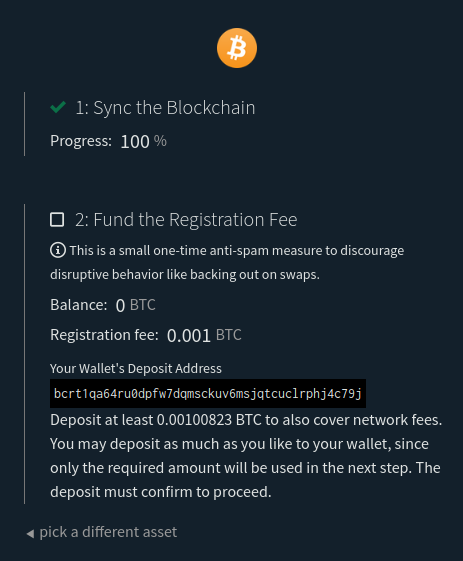
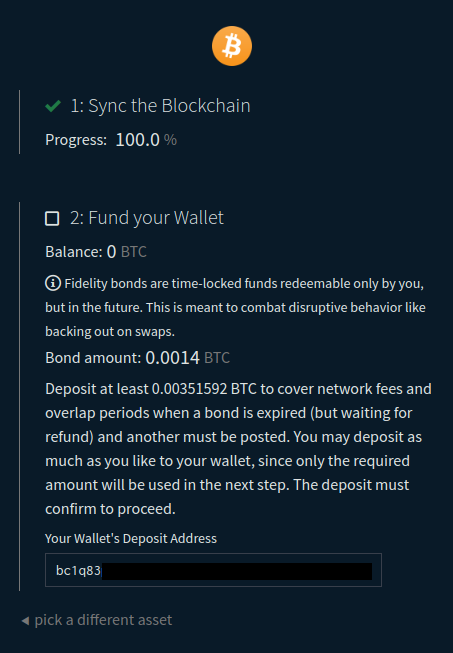
wiki: update client install and config page

diff --git a/docs/wiki/Client-Installation-and-Configuration.md b/docs/wiki/Client-Installation-and-Configuration.md
@@ -2,107 +2,85 @@
 
 ## Client Quick Start Installation
 
-The DEX client can be installed in one of the following ways:
+The DEX client can be installed in one of the following ways. Download the
+application from *just one* of the following locations:
 
-1. Download the standalone DEX client for your operating system for the
-   [latest release on GitHub](https://github.com/decred/dcrdex/releases).
-2. [Use Decrediton](https://docs.decred.org/wallets/decrediton/decrediton-setup/),
-   the official graphical Decred wallet, which integrates the DEX client, and go
-   to the DEX tab.
-3. Use the Decred command line application installer, [**dcrinstall**](https://docs.decred.org/wallets/cli/cli-installation/),
-   with the `--dcrdex` switch.
-4. Build the standalone client [from source](https://github.com/decred/dcrdex/wiki/Client-Installation-and-Configuration#advanced-client-installation).
+* Download the standalone DEX client for your operating system for the [latest
+  release on GitHub](https://github.com/decred/dcrdex/releases). Extract the
+  "dexc" executable from the archive and run it. Open any web browser to the
+  link shown by the application. You may also put the **dexc** executable's
+  folder on your `PATH`.
+* [Use Decrediton](https://docs.decred.org/wallets/decrediton/decrediton-setup/),
+  the official graphical Decred wallet, which integrates the DEX client, and go
+  to the DEX tab.
+* (Legacy users) Use the Decred command line application installer,
+  [**dcrinstall**](https://docs.decred.org/wallets/cli/cli-installation/). This
+  is no longer recommended.
+* Build the standalone client [from source](https://github.com/decred/dcrdex/wiki/Client-Installation-and-Configuration#advanced-client-installation).
 
-**WARNING**: If you decide to build from source, use the `release-v0.5` branch,
+**WARNING**: If you decide to build from source, use the latest release branch,
 not `master`.
 
-### Sync Blockchains
+### Important Note on External Wallets
 
-Full nodes are NOT required to use DEX with BTC, DCR, or LTC. For Bitcoin, you
-can choose to create a native (built into the DEX client) BTC wallet by choosing
-the "Native" wallet type in the DEX client dialogs. A native DCR wallet is also
-available, but you may use Decrediton or dcrwallet running in SPV (light) mode
-for a more full-featured Decred wallet.
-
-NOTE: The upcoming Ethereum wallet is also a native wallet that uses the standard
-[light ethereum subprotocol (LES)](https://github.com/ethereum/devp2p/blob/master/caps/les.md).
-However, ETH trading is not enabled in the current release and the wallet is not
-available in the default build.
-
-Both LTC and BTC support external Electrum wallets, but this option is less
-mature and provides less privacy than the other wallet types. Be sure the wallet
-is connected to and synchronized with the network first, only the
-"default_wallet" is loaded, and its RPC server is configured
-([example](images/electrum-rpc-config.png)).
-
-If you choose to use full node wallets, you must fully synchronize them with
-their networks *before* running the DEX client. This refers to **dcrd**,
-**bitcoind**, **litecoind**, etc. Note that Bitcoin Core and most "clones"
-support block pruning, which can keep your blockchain storage down to a few GB,
-not the size of the full blockchain. Also, for good network fee estimates, the
-node should be running for several blocks.
-
-### Important Notes on Wallets
-
-- **If you already have Decrediton installed**, upgrade Decrediton before
-  running **dcrinstall**.
-
-- If using external wallet software (e.g. Decrediton, **dcrd**+**dcrwallet**,
-  **bitcoind**, Electrum, etc.), they must remain running while the DEX client
-  is running. Do not shut down, lock, unlock, or otherwise modify your wallet
-  settings while the client is running.
-
-- For Electrum, the wallet must be the "default_wallet". Only one Electrum
-  wallet should be opened to ensure the correct one is accessed.
+If using external wallet software (e.g. **dcrd**+**dcrwallet**, **bitcoind**,
+Electrum, etc.), they must remain running while the DEX client is running. Do
+not shut down, lock, unlock, or otherwise modify your wallet settings while the
+client is running. Also, only send funds from within the DEX application, not
+directly from the external wallet's own controls. Finally, do not manually lock
+or unlock any coins while the DEX client is running.
 
 ## Client Configuration
 
-These instructions assume you've used the
-[Client Quick Start Installation](#client-quick-start-installation). If you've
-used a [custom installation](#advanced-client-installation) for the client
-and/or blockchain software, adapt as necessary.
+These instructions assume you've obtained the DEX client as described in the
+[Client Quick Start Installation](#client-quick-start-installation) section.
 
 ### Prerequisites
 
-External wallet software is not required for all assets. The native light
-wallets are the simplest and best option for most users. But if using external
-wallets, they should be running and synced before starting DEX. See the next
-section for a list of supported wallets and assets.
-
-Unless you use Decrediton to start DEX, you will need a web browser to open the
+If you use the standalone DEX client, you will need a web browser to open the
 DEX client user interface as described in the next section.
 
-### Optional External Software
+Most users will use the native wallets that are already built into the DEX
+client. Depending on the asset, you may be able to choose from: (1) a native
+wallet, (2) an external full node wallet, or (3) an Electrum-based wallet.
+Consult the following table for a summary of wallet support. If there is a
+checkmark in the "native" column, no external software is required.
 
-Depending on which assets you wish to use, you have different choices for wallet
-software. There are native/built-in light wallet options for Bitcoin and Decred,
-an external light wallet option for Litecoin, and full-node support for all
-other assets including: Bitcoin, Decred, Litecoin, Zcash, Dogecoin, Bitcoin
-Cash. The following release will include Ethereum support with a native light
-wallet.
+| Coin         | native | full node | Electrum | notes                        |
+|--------------|--------|-----------|----------|------------------------------|
+| Bitcoin      |    ✓   | [v0.21-v24](https://bitcoincore.org/en/download/) | [v4.2.x](https://electrum.org/) |                              |
+| Decred       |    ✓   | [v1.7-1.8](https://github.com/decred/decred-release/releases) |     x    |                              |
+| Ethereum     |    ✓   | geth IPC/http/ws |   N/A   |  see <https://github.com/decred/dcrdex/wiki/Ethereum>   |
+| Litecoin     |    ✓   | [v0.21.2.2](https://litecoin.org/) | [v4.2.x](https://electrum-ltc.org/) | may require a [bootstrap peer](https://gist.github.com/chappjc/d0f26b12258f8531bb78b37f38d080a0) |
+| Bitcoin Cash |    ✓   | [v24+](https://bitcoincashnode.org/) |     x    | use only Bitcoin Cash Node for full node |
+| Dogecoin     |    x   |  [v1.14.5+](https://dogecoin.com/) |     x    |                              |
+| Zcash        |    x   |   [v5.4.2](https://z.cash/download/)  |     x    |                              |
 
-1. **Bitcoin.** The native wallet has no prerequisites. To use a
-   [Bitcoin Core](https://bitcoincore.org/en/download/) full node wallet
-   (bitcoind or bitcoin-qt), the supported versions are v0.21, v22, and v23.
-   Descriptor wallets are not supported in v0.21. An [Electrum
-   v4.2.x](https://electrum.org/) wallet is also supported.
-2. **Decred.** The native wallet has no prerequisites. Alternatively, Decrediton
-   or the dcrwallet command line application may be used in either SPV or full
-   node (RPC) mode. The latest Decrediton installer includes DEX. If using a
-   standalone [dcrwallet](https://github.com/decred/dcrwallet), install from the
-   [v1.7.x release binaries](https://github.com/decred/decred-release/releases),
-   or build from the `release-v1.7` branches.
-3. **Litecoin.** Either [Litecoin Core v0.21.x](https://litecoin.org/) or
-   [Electrum-LTC v4.2.x](https://electrum-ltc.org/) are supported.
-4. **Dogecoin.** [Dogecoin Core v1.14.5+](https://dogecoin.com/).
-5. **Zcash.** [zcashd v5.4.2](https://z.cash/download/).
-6. **Bitcoin Cash.** [Bitcoin Cash Node v24+](https://bitcoincashnode.org/en/)
+NOTE: The Electrum option is less mature and provides less privacy than the
+other wallet types. Some manual configuration of the Electrum wallet's RPC
+server is also necessary ([example](images/electrum-rpc-config.png)).
+
+### Synchronizing Wallets
+
+**If using the native wallets** that are integrated with the DEX client (see
+above), you can skip this section.
+
+If you choose to use an external wallet (full node or Electrum), you must start
+and synchronize them with their networks *before* running the DEX client.
+
+Note that Bitcoin Core and most "clones" support block pruning, which can keep
+your blockchain storage down to a few GB, not the size of the full blockchain,
+but a large size should be used to avoid full reindexing if used infrequently.
+Also, for good network fee estimates, the full node should be running for
+several blocks.
 
 ### Initial Setup
 
-1. Start the client. Either go to the "DEX" tab within Decrediton, or with the
-   standalone client, open a command prompt in the folder containing the
-   pre-compiled dexc client files and run `./dexc` (`dexc.exe` on Windows).
+1. Start the client. For the standalone client (**dexc**), open a command prompt
+   in the folder containing the dexc application and run it. e.g. `./dexc` on
+   Mac and Linux, or `dexc.exe` on Windows. To avoid the command prompt on
+   Windows, `dexc-tray.exe` may be run instead. If using Decrediton instead of
+   **dexc**, just click the "DEX" tab and skip to step 3.
 
 2. In your web browser, navigate to <http://localhost:5758>. Skip this step if
    using Decrediton.
@@ -110,25 +88,33 @@ wallet.
    <img src="images/omnibar-client.png" width="320">
 
 3. Set your new **client application password**. You will use this password to
-   perform all future security-sensitive client operations, including
-   registering, signing in, and trading.
+   perform all future security-sensitive client operations.
 
    <img src="images/client-pw.png" width="320">
 
-4. Choose the DEX server you would like to use. Either click one of the
-   pre-defined hosts such as **dex.decred.org**, or enter the address of a known
-   server that you would like to use.
+   NOTE: Checking the "Remember my password" box only applies to the current
+   session. It is easiest for most users to have it checked.
+
+4. Choose the DEX host that you would like to use. Either click one of the
+   pre-defined hosts, or enter the address of a known host that you would like
+   to use.
 
    <img src="images/add-dex-reg.png" width="320">
 
-   The above example shows a local server when in simnet mode (a developer network).
+   NOTE: If you just want to view the markets without being able to trade, check
+   the "No account" box. You will have an opportunity to create an identity
+   later, but the remaining steps assume you are preparing to trade.
 
-5. The DEX server will show all offered markets, and a choice of assets with
-   which to pay the one-time setup fee. (This is a nominal amount just to
-   discourage abuse and maintain a good experience for all users. No further
-   fees are collected on trades.) Select the asset you wish to use.
+5. The DEX host will show all offered markets, and a choice of assets with which
+   you can lock in a bond to enable trading. Select the asset you wish to use.
 
-   <img src="images/choose-fee.png" width="400">
+   <img src="images/choose-bond-asset.png" width="400">
+
+   NOTE: A dedicate wiki page describing time-locked fidelity bonds will be
+   created, but in short, fidelity bonds are funds redeemable only by you, but
+   in the future. Having a potential trader lock some amount of funds before
+   placing orders is an anti-spam mechanism to combat disruptive behavior like
+   backing out on swaps.
 
 6. Choose the type of wallet to use. In this screenshot, we choose a native BTC
    wallet and click "Create!". The wallet will begin to synchronize with the
@@ -138,49 +124,69 @@ wallet.
 
    NOTE: This is your own **self-hosted** wallet. The wallet's address keys are
    derived from the DEX application's "seed", which you may backup from the
-   Settings page at any time.
+   Settings page at any time. Further, no central wallet backend service is
+   involved, only the nodes on the coin's decentralized network.
 
 7. The next form will show you synchronization progress, and give you the first
    deposit address for the wallet and the minimum amount you should deposit to
-   be able to pay the fee. After sending to your address, the transaction **must
-   confirm** (i.e. be mined in a block) before the form will update your
-   balance. This form will be skipped if the wallet is already funded and
-   synchronized.
+   be able to create your first bond in the next step, which is required to
+   place orders. **This is your wallet**, so deposit as much as you like! After
+   sending to your address, the transaction **must confirm** (i.e. be mined in a
+   block) before the form will update your balance. This form will be skipped if
+   the wallet is already funded and synchronized.
 
    <img src="images/sync-fund-btc.png" width="360">
 
    **IMPORTANT**: This is your own local wallet, and you can send as much as you
-   like to the wallet since *only* the amount required for the fee will be spent
-   in the next step. The remaining balance will be available for trading or may
-   be withdrawn later. In the case of the screenshot above, the form indicates
-   that for the client to make a fee payment transaction for the amount of 0.001
-   BTC, the wallet should be funded with "at least 0.00100823 BTC to also cover
-   network fees".  For example, you can send yourself 5 BTC and only the
-   required amount will be spent on the registration fee, with the remainder in
-   the wallet's balance, which can then be traded or sent to another wallet.
-   Since this fee estimate can change as network conditions fluctuate, you
-   should deposit as much as you wish to trade.
+   like to it since *only* the amount required for the bond will be spent in the
+   next step. The remaining amount, minus a small reserve for future bond
+   transactions, will be in your available balance. For example, you can send
+   yourself 5 BTC and only the required amount (0.0014 BTC in the case pictured
+   above) will be spent to create the bond in the next step, with an equivalent
+   amount plus fees in reserves. The remainder goes to your available balance,
+   which can then be traded, sent, or simply held in the wallet.
 
-8. Once the wallet is synchronized and has at least enough to pay the server's
-   defined fee, the form will update, and you should click the button to submit
-   the registration request and transmit the fee amount.
+   You may disable future bonds at any time by changing the "Target Tier" to 0
+   in the "Update Bond Options" form accessible from DEX host settings form
+   accessible from the Settings page. This will return any reserves to the
+   available balance. Any active bonds will automatically be refunded when their
+   lock time expires (currently 2 months after creation).
+
+   NOTE: The native Litecoin and Bitcoin Cash wallets connect to full nodes on
+   the blockchain network that have "compact block filters" enabled. It may take
+   time for the wallet to crawl the network until it finds such nodes. Be
+   patient; otherwise you can bootstrap the process using a known seed node such
+   as the Litecoin nodes on [this list](https://gist.github.com/chappjc/d0f26b12258f8531bb78b37f38d080a0).
+
+8. Once the wallet is synchronized and has at least enough to create your
+   time-locked fidelity bond, the form will update, and you should click the
+   button to create and broadcast your bond transaction.
 
    <img src="images/register-button.png" width="360">
 
-9. You will then be taken to the **markets view**, where you must wait for
-   confirmations on your registration fee transaction generated in the previous
-   step, at which time your client will automatically complete authentication
-   with that server.
+   After proceeding, the available balance will be the amount you deposited
+   in the previous step minus this bond amount and transaction fees.
+
+9. You will then be taken to the **Markets** page, where you must wait for
+   confirmations on your bond transaction:
 
    <img src="images/wait-for-confs.png" width="360">
-
-   Note the remainder of the 5 BTC deposited in the available balance after the
-   fee was paid.
 
    While waiting, you may create additional wallets either directly from the
    displayed market or on the Wallets page accessible from the navigation bar at
    the top. This is also a good time to retrieve your application "seed", as
    described in the next step.
+
+   After the transaction is confirmed, the application will submit the bond for
+   validation and you will be ready to trade:
+
+   <img src="images/bond-accepted.png" width="360">
+
+   It is recommended to export bond information whenever they are created since
+   they are not automatically restored from just the application seed. Do this
+   using the "Export Account" button of the DEX host settings accessible from
+   the Settings page. If you restore from seed in the future: create the same
+   wallets, add the same DEX host, and *then* import the bonds from this backup.
 
 10. At any time you can go to the Settings page via the "gears" icon in the top
     navigation bar to retrieve the application seed that was generated when
@@ -197,15 +203,15 @@ wallet.
 
 ### Dependencies
 
-1. [Go 1.18 or 1.19](https://golang.org/doc/install)
-2. [Node 16 or 18](https://docs.npmjs.com/downloading-and-installing-node-js-and-npm) is used to bundle resources for the browser interface. It's important to note that the DEX client has no external JavaScript dependencies. The client doesn't import any Node packages. We only use Node to lint and compile our own JavaScript and css resources.
+1. [Go 1.19 or 1.20](https://golang.org/doc/install)
+2. (optional) [Node 18 or 20](https://docs.npmjs.com/downloading-and-installing-node-js-and-npm) is used to bundle resources for the browser interface. It's important to note that the DEX client has no external JavaScript dependencies. The client doesn't import any Node packages. We only use Node to lint and compile our own JavaScript and css resources. This build step is not required if building from a release branch such as `release-v0.6`.
 3. At least 2 GB of available system memory.
 
 ### Build from Source
 
 **Build the web assets** from *client/webserver/site/*.
 
-Bundle the CSS and JavaScript with Webpack:
+**If building from the `master` branch,** bundle the CSS and JavaScript with Webpack:
 
 ```sh
 npm clean-install && npm run build
@@ -221,9 +227,8 @@ go build
 Connect to the client from your browser at `localhost:5758`.
 
 While `dexc` may be run from within the git workspace as described above, the
-`dexc` binary executable generated with `go build` and the entire `site` folder
-can be copied into a different folder as long as `site` is in the same directory
-as `dexc` (e.g. `/opt/dcrdex/dexc` and `/opt/dcrdex/site`).
+`dexc` binary executable generated with `go build` can be copied into a
+different folder (e.g. `/opt/dcrdex/dexc`).
 
 ### Docker
 
